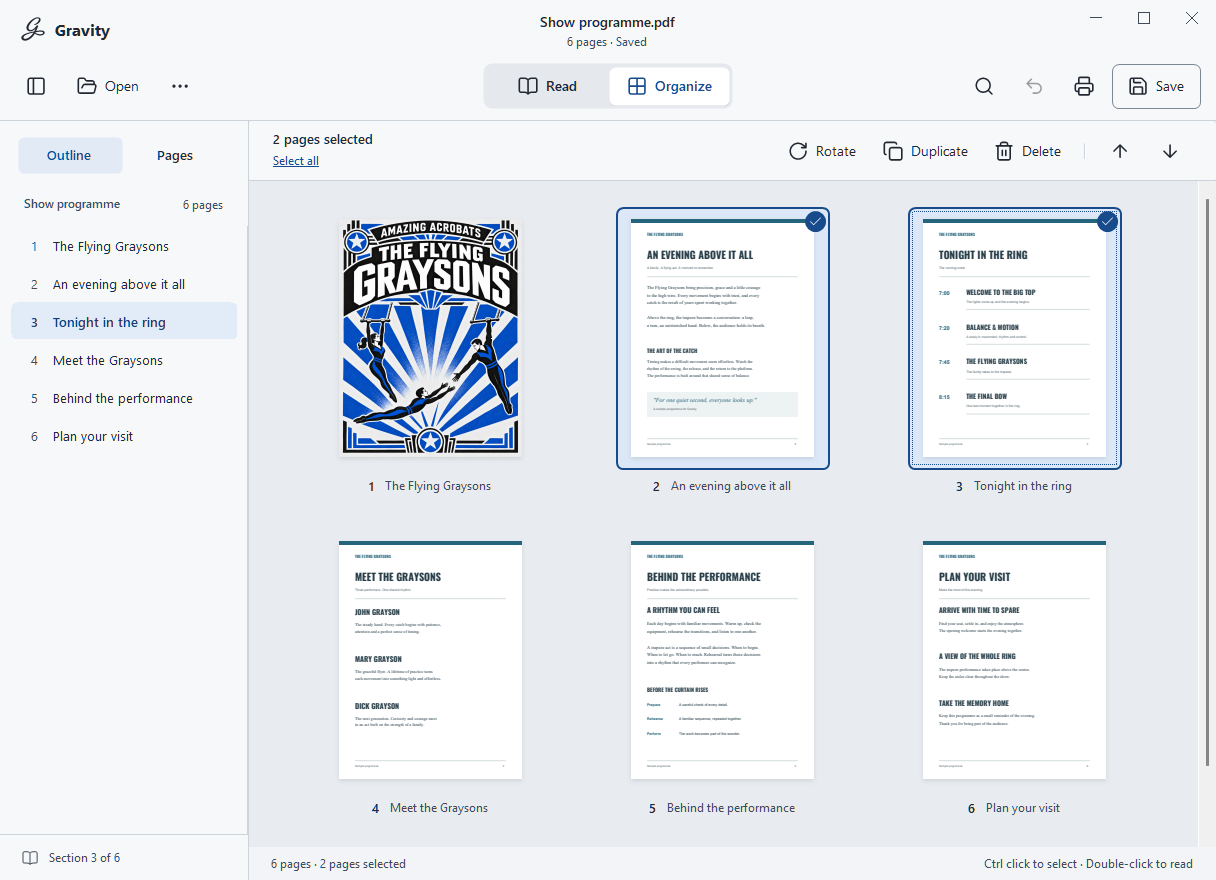
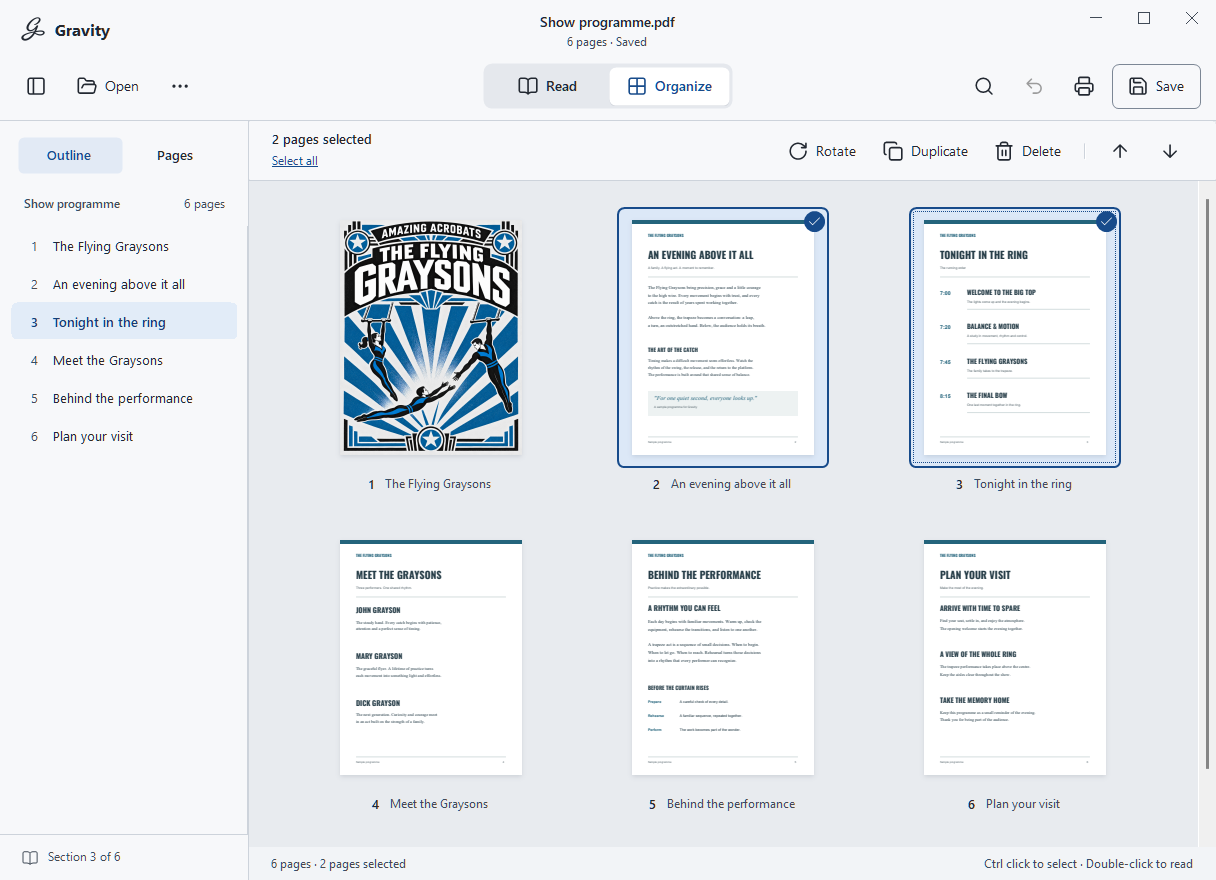
Refresh README screenshots with rounded corners and soft shadows

diff --git a/README.md b/README.md
@@ -21,15 +21,15 @@ Read PDFs, fill existing form fields, and rearrange, combine, cut, copy and past
 - macOS: a native app for Apple Silicon and Intel, built with Xcode Command Line Tools. See [macOS](#macos) for coverage and build instructions.
 
 <p align="center">
-  <a href="docs/readme-reading.png"><img src="docs/readme-reading.png" alt="Gravity screenshot showing the modern, performant interface." width="1200"></a>
+  <a href="docs/readme-reading-framed.png"><img src="docs/readme-reading-framed.png" alt="Gravity screenshot showing the modern, performant interface." width="1200"></a>
 </p>
 <p align="center"><sub>Gravity for Windows displaying The Flying Graysons poster.</sub></p>
 
 <table>
   <tr>
-    <td align="center" width="33%"><a href="docs/readme-organize.png"><img src="docs/readme-organize.png" alt="Windows page organizer showing six programme pages, with two selected for page actions" width="400"></a><br><strong>Organize pages</strong></td>
-    <td align="center" width="33%"><a href="docs/readme-search.png"><img src="docs/readme-search.png" alt="Windows document search showing four matches for trapeze, page snippets, and a highlighted result" width="400"></a><br><strong>Search documents</strong></td>
-    <td align="center" width="33%"><a href="docs/readme-forms.png"><img src="docs/readme-forms.png" alt="Windows PDF form editor with guest name, performance, seats, and a checked programme option" width="400"></a><br><strong>Fill PDF forms</strong></td>
+    <td align="center" width="33%"><a href="docs/readme-organize-framed.png"><img src="docs/readme-organize-framed.png" alt="Windows page organizer showing six programme pages, with two selected for page actions" width="400"></a><br><strong>Organize pages</strong></td>
+    <td align="center" width="33%"><a href="docs/readme-search-framed.png"><img src="docs/readme-search-framed.png" alt="Windows document search showing four matches for trapeze, page snippets, and a highlighted result" width="400"></a><br><strong>Search documents</strong></td>
+    <td align="center" width="33%"><a href="docs/readme-forms-framed.png"><img src="docs/readme-forms-framed.png" alt="Windows PDF form editor with guest name, performance, seats, and a checked programme option" width="400"></a><br><strong>Fill PDF forms</strong></td>
   </tr>
 </table>
 
